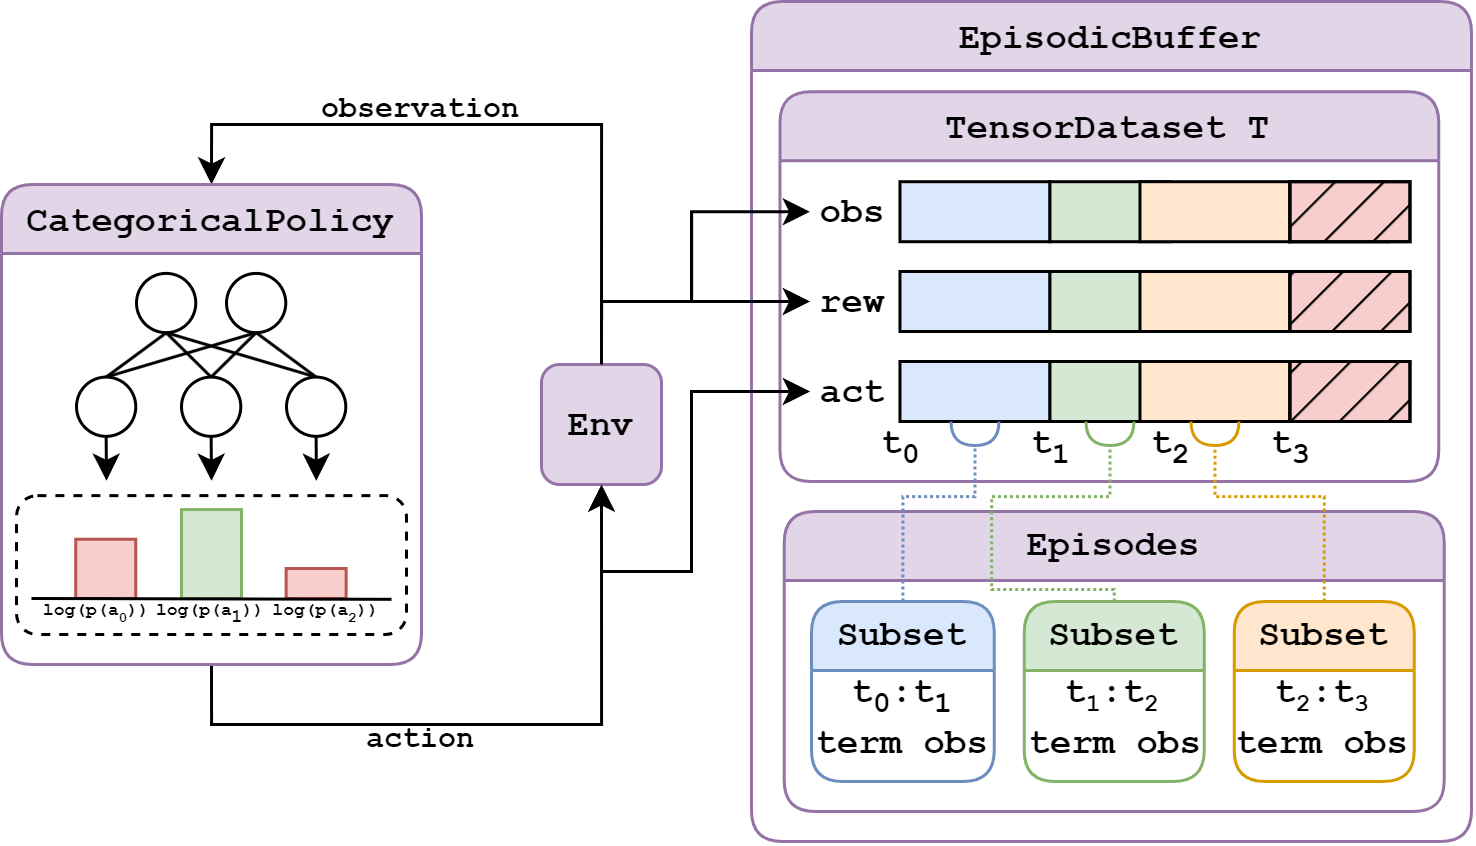
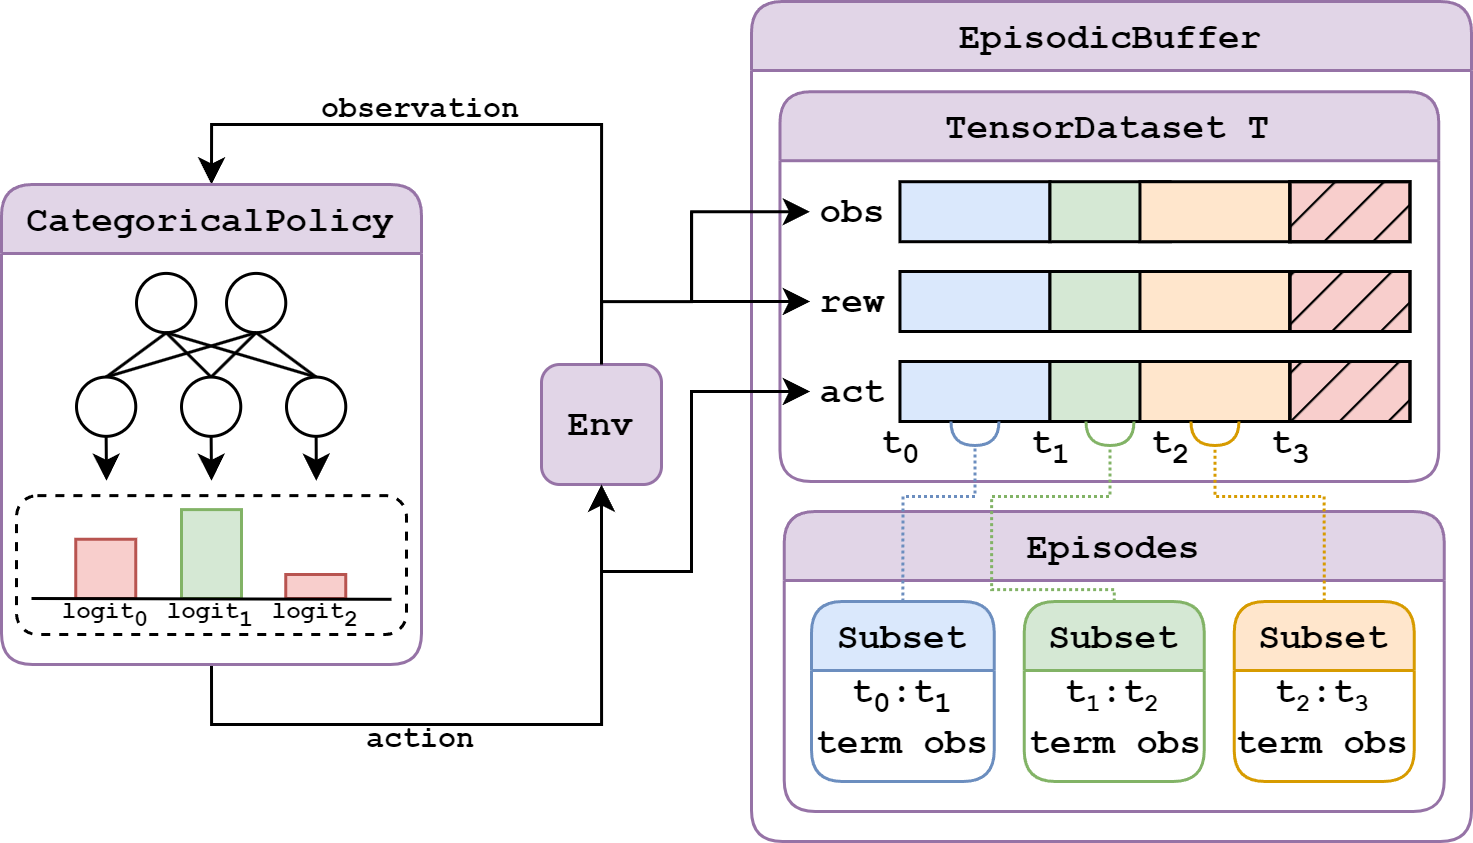
image fixes and updating text

diff --git a/_posts/2024-07-28-flow-of-data.md b/_posts/2024-07-28-flow-of-data.md
@@ -23,5 +23,8 @@ The episodic nature of the buffer comes in handy for both logging model performa
 
 This section will demonstrate the training data augmentation process for PPO. Any data specific to the RL method implemented via Gumbo will have to specify the procedures that generate the data required for said method.
 
+First we can obtain quantities that are calculable across the entire dataset: action log probabilities & values. Observations are fed into the policy module to obtain the logits that define the action distribution. This distribution is then used to compute the log probabilities of each action in the dataset. Values are obtained as the direct output from some value estimation module.
+
 ![Augmenting full tensors](/assets/gumbo_data_augment_full.png)
 
+Next, we leverage the episodic nature of our data buffer to calculate the advantages.
